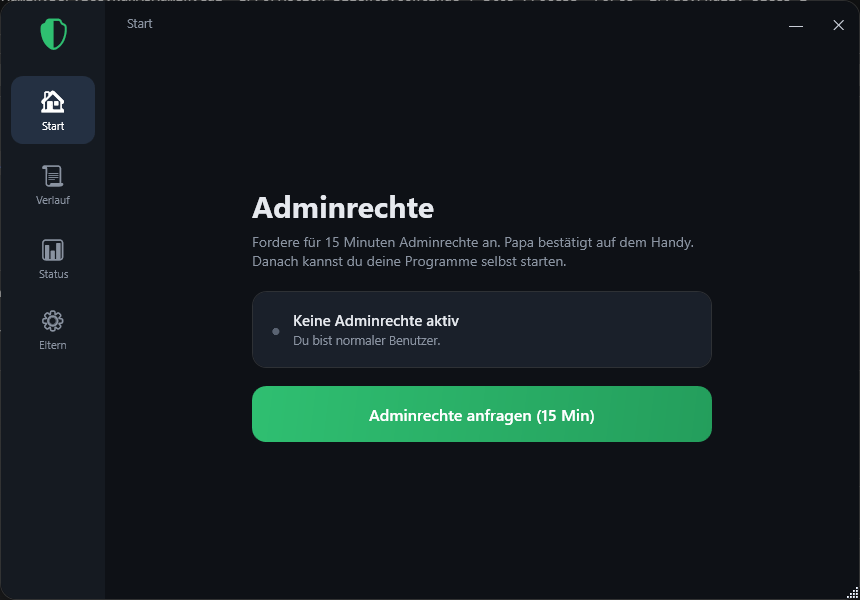
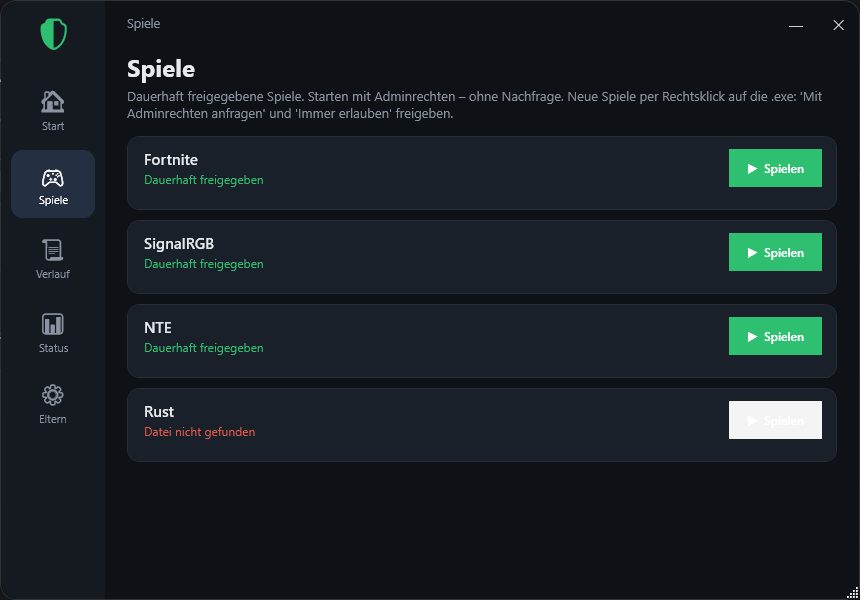
README auf aktuellen Stand: Server-Modus, Spiele-Feature, PIN-Fallback + neuer Screenshot
- Zwei Freigabe-Wege (Spiele dauerhaft / 15 Min Admin) und drei Anbindungen
  (HA-Webhooks / Add-on-Server / lokale PIN) beschrieben
- Geheimnis vs. Server-Token erklaert (woher welcher Wert kommt)
- entfernten CLI-Client aus Bestandteilen/Build-Anweisung geloescht
- Add-on-Abschnitt ergaenzt; neuer echter Screenshot zeigt den Reiter "Spiele"

diff --git a/README.md b/README.md
@@ -1,38 +1,69 @@
 # RunAsAdmin
 
-Kontrollierte, protokollierte **Adminrechte auf Zeit** für Standardbenutzer unter
-Windows 11 – ein selbstgebauter Ersatz für Tools wie „Admin By Request", gekoppelt
-an Home Assistant. Gedacht für Kinder-PCs: Die Kinder bleiben normale Benutzer und
-können bei Bedarf **15 Minuten Adminrechte anfragen**, die ein Elternteil per Handy
-freigibt. Danach werden die Rechte automatisch wieder entzogen – und es wird
-protokolliert, welche Programme in der Zeit mit Adminrechten liefen.
+Kontrollierte, protokollierte **Adminrechte für Standardbenutzer** unter Windows 11 –
+ein selbstgebauter Ersatz für Tools wie „Admin By Request". Gedacht für Kinder-PCs:
+Die Kinder bleiben normale Benutzer, können aber gezielt und protokolliert zu
+Adminrechten kommen. Freigaben laufen über **Home Assistant** (per Handy) oder über
+das mitgelieferte **HA-Add-on**, alternativ lokal per **Eltern-PIN**.
 
-> **Prinzip (MakeMeAdmin):** Statt einzelne Programme erhöht zu starten, wird das
-> Kind nach der Freigabe kurz **echtes Admin-Mitglied**. Es startet seine Programme
-> dann selbst (bei Bedarf mit einem UAC-Klick, den es nun bestätigen darf). Nach
-> Ablauf der Zeit wird es automatisch zurückgestuft.
+Es gibt zwei Wege, die sich ergänzen:
+
+- **Spiele dauerhaft freigeben** (für den Alltag): Ein Spiel (z. B. mit Anti-Cheat,
+  oder SignalRGB) wird **einmalig** freigegeben und startet danach immer selbst
+  erhöht – **ohne UAC, ohne dass das Kind Admin wird, ohne tägliches Nachfragen**.
+  Technisch über eine geplante Aufgabe (Task Scheduler), die genau diese `.exe`
+  erhöht startet.
+- **Adminrechte auf Zeit** (für Ausnahmen, z. B. mal etwas installieren): Das Kind
+  fragt **15 Minuten Admin** an, ein Elternteil gibt frei, danach automatischer
+  Entzug. Protokolliert, welche Programme in der Zeit erhöht liefen.
 
 ![RunAsAdmin – die App auf dem Kinder-PC](assets/screenshot.png)
 
-Die App auf dem Kinder-PC: Seitenleiste (Start · Verlauf · Status · Eltern),
-Statusanzeige und der Knopf „Adminrechte anfragen (15 Min)".
+Die App auf dem Kinder-PC: Seitenleiste (Start · Spiele · Verlauf · Status · Eltern).
+Hier der Reiter „Spiele" – dauerhaft freigegebene Spiele startet das Kind per Klick
+erhöht, ohne UAC und ohne Admin zu werden.
 
 ---
 
-## Ablauf
+## Freigabe-Wege im Überblick
 
-1. Kind öffnet die **RunAsAdmin-App** (Tray-Symbol / Startmenü) und klickt
-   **„Adminrechte anfragen (15 Min)"**.
-2. Der Dienst schickt die Anfrage per Webhook an **Home Assistant** → du bekommst
-   eine **Push-Benachrichtigung** mit *Erlauben / Ablehnen*.
-3. Bei *Erlauben* nimmt der Dienst (läuft als SYSTEM) das Kind in die lokale
-   Administratorengruppe. Die App zeigt **„Du bist 15 Minuten Admin"** + Restzeit,
-   das Tray-Symbol wird grün.
-4. Das Kind startet seine Programme (Spiele, Updater …) **selbst**.
-5. Während der Zeit protokolliert der Dienst, welche Programme **tatsächlich
-   erhöht** (als Admin) liefen.
-6. Nach 15 Minuten: automatischer Entzug der Adminrechte. In Home Assistant
-   erscheint im Logbuch z. B. *„Admin-Zeit beendet – genutzt: Steam, …"*.
+| Weg | Wofür | Wie freigegeben |
+|-----|-------|-----------------|
+| **Spiel dauerhaft** | tägliche Spiele / Tools mit Admin-Bedarf | einmalig „Immer erlauben" → Reiter *Spiele* + Tray |
+| **15 Min Admin** | einmalige Ausnahmen (installieren usw.) | pro Anfrage per Handy / Dashboard / PIN |
+
+### Anbindung (umschaltbar in den Einstellungen)
+
+- **Home Assistant** (Webhooks): Anfrage geht per Webhook an HA, Push mit
+  *Erlauben / Ablehnen*, Entscheidung kommt an den PC zurück. Braucht ein
+  gemeinsames Geheimnis (siehe unten).
+- **Server** (HA-Add-on `runasadmin_server`): Der PC spricht mit **einem** Add-on,
+  das Freigaben, Verlauf und ein Web-Dashboard (Graphen) bereitstellt. Der PC pollt
+  nur ausgehend – **kein offener Port am PC nötig**.
+- **Lokale Eltern-PIN**: Fallback, wenn HA/Server nicht erreichbar ist. Papa gibt am
+  PC die PIN ein → sofort 15 Minuten Admin. Falsche PIN wird gemeldet.
+
+---
+
+## Ablauf: Spiel dauerhaft freigeben
+
+1. Kind: Rechtsklick auf die Spiel-`.exe` → **„Mit Adminrechten anfragen"**.
+2. Elternteil gibt frei und wählt **„Immer erlauben"** (per Handy, Dashboard oder PIN).
+3. Der Dienst legt für dieses Spiel eine **geplante Aufgabe** an (läuft als der
+   angemeldete Benutzer mit höchsten Rechten) und sichert die Datei per
+   **Hash/Herausgeber** gegen Austausch ab.
+4. Das Spiel erscheint im Reiter **„Spiele"** und im **Tray-Menü**. Ab jetzt startet
+   das Kind es dort per Klick – erhöht, ohne UAC, nur dieses eine Programm.
+
+## Ablauf: Adminrechte auf Zeit (15 Min)
+
+1. Kind klickt in der App **„Adminrechte anfragen (15 Min)"**.
+2. Freigabe per Handy (HA), im Add-on-Dashboard oder lokal per **Eltern-PIN**.
+3. Bei *Erlauben* nimmt der Dienst (SYSTEM) das Kind kurz in die lokale
+   Administratorengruppe; Tray-Symbol wird grün, Restzeit läuft.
+4. Das Kind startet seine Programme selbst. Protokolliert wird, was **tatsächlich
+   erhöht** lief.
+5. Nach 15 Minuten: automatischer Entzug. Not-Aus jederzeit per Handy/Dashboard.
 
 ---
 
@@ -40,12 +71,14 @@ Statusanzeige und der Knopf „Adminrechte anfragen (15 Min)".
 
 | Teil | Projekt | Läuft wo |
 |------|---------|----------|
-| **Dienst** (nimmt Anfragen an, verwaltet Admin-Zeit, protokolliert) | `src/RunAsAdmin.Service` | als SYSTEM auf jedem Kinder-PC |
-| **GUI** (Tray + Fenster: anfragen, Status, Verlauf, Einstellungen) | `src/RunAsAdmin.Gui` | als das Kind auf dem Kinder-PC |
+| **Dienst** (Anfragen, Admin-Zeit, Spiele-Start, Protokoll) | `src/RunAsAdmin.Service` | als SYSTEM auf jedem Kinder-PC |
+| **GUI** (Tray + Fenster: Start, Spiele, Verlauf, Status, Eltern) | `src/RunAsAdmin.Gui` | als das Kind auf dem Kinder-PC |
 | **Installer** (Single-File-Setup, Deinstaller, Cleanup) | `src/RunAsAdmin.Installer` | einmal pro PC |
-| CLI (optional, für Skripte) | `src/RunAsAdmin.Client` | – |
 | Gemeinsames Modell, Verschlüsselung, Update | `src/RunAsAdmin.Shared` | – |
 | **Home Assistant** (Automationen, Dashboard) | `homeassistant/` | dein HA-Server |
+| **HA-Add-on** (Server-Modus: API + Dashboard) | `addon/runasadmin-server/`¹ | dein HA-Server |
+
+¹ Das Add-on wird aus dem Repo **`Delido/hassio-addons`** installiert; `addon/` hier ist die Entwicklungsquelle.
 
 ---
 
@@ -59,10 +92,15 @@ Die Release-Dateien sind **self-contained** – es ist **kein** .NET nötig.
 2. **`RunAsAdmin-Setup.exe`** (auf der obersten Ebene) als Administrator ausführen.
    Der Installer kopiert die Dateien, härtet die Berechtigungen (Kinder können
    Konfiguration und Protokolle nicht ändern), legt das Tray-Autostart an,
-   registriert den Dienst als LocalSystem und setzt URL-Vorbehalte + Firewallregeln.
+   registriert den Dienst als LocalSystem und – **nur im HA-Modus** – setzt
+   URL-Vorbehalte + Firewallregeln für den Rückkanal.
 3. **Einrichten (einmalig):** Tray-Symbol → *Einstellungen (Eltern)*:
-   Home-Assistant-Adresse, das Geheimnis (CallbackSecret) und eine **Eltern-PIN**
-   eintragen, „Home Assistant verwenden" anhaken.
+   - **Verbindungsart** wählen: *Home Assistant* oder *Server*.
+   - *Home Assistant:* Adresse + **gemeinsames Geheimnis** (siehe unten) eintragen,
+     „Home Assistant verwenden" anhaken.
+   - *Server:* Add-on-Adresse (`http://<ha-ip>:8099`) + **Server-Token** eintragen
+     (= die Add-on-Option `pc_token`).
+   - In beiden Fällen eine **Eltern-PIN** festlegen.
 
 > Bei Problemen mit einer alten Installation: `Cleanup.ps1` (im ZIP) als Admin
 > ausführen, ggf. neu starten, dann Setup erneut.
@@ -73,36 +111,64 @@ Die Release-Dateien sind **self-contained** – es ist **kein** .NET nötig.
 
 ---
 
-## Sicherheit
+## Das gemeinsame Geheimnis / Token
 
-- **Geheimnisse verschlüsselt:** Das `CallbackSecret` wird mit Windows **DPAPI**
-  verschlüsselt gespeichert, nie im Klartext. Die Eltern-**PIN** liegt als
-  gesalzener Hash vor. Beides ist nur über die PIN-geschützten Einstellungen änderbar.
-- **Dieses Repo enthält keine persönlichen Daten** – keine HA-Adresse, kein Secret.
-  Du trägst diese nur lokal in der App ein.
-- **Gehärtete Rechte:** Konfiguration (`C:\ProgramData\RunAsAdmin\config.json`) und
-  Protokolle sind per ACL für die Kinder gesperrt.
-- **Zeitlich begrenzt:** Adminrechte werden nach 15 Minuten automatisch entzogen –
-  auch nach einem Dienst-Neustart wird eine verwaiste Mitgliedschaft aufgeräumt.
-- Die lokalen Listener sind per Firewallregel beschränkt.
+Je nach Verbindungsart brauchst du **einen** Wert – und er muss auf beiden Seiten
+identisch sein:
+
+- **Home Assistant (CallbackSecret):** ein **frei erfundenes** Passwort. Du trägst
+  denselben Wert am PC (GUI) **und** in Home Assistant ein. Damit prüft der PC, dass
+  die Freigabe-Antwort wirklich von deinem HA kommt. In der GUI erzeugt der Knopf
+  **„Würfeln"** auf Wunsch ein starkes Zufalls-Secret und kopiert es.
+- **Server (pc_token):** das Token kommt **vom Add-on**. In HA beim Add-on
+  „RunAsAdmin Server" unter *Konfiguration* die Option `pc_token` setzen und denselben
+  Wert am PC eintragen.
+
+Beide Werte werden am PC mit Windows **DPAPI** verschlüsselt gespeichert, nie im
+Klartext – auch nicht in der Konfigurationsdatei.
 
 ---
 
-## Home Assistant
+## Sicherheit
+
+- **Geheimnisse verschlüsselt:** Secret/Token per **DPAPI** verschlüsselt, Eltern-PIN
+  als gesalzener Hash. Änderbar nur über die PIN-geschützten Einstellungen.
+- **Dieses Repo enthält keine persönlichen Daten** – keine HA-Adresse, kein Secret.
+- **Gehärtete Rechte:** Konfiguration (`C:\ProgramData\RunAsAdmin\config.json`) und
+  Protokolle sind per ACL für die Kinder gesperrt.
+- **Spiele-Start abgesichert:** Vor jedem Start wird die `.exe` gegen den hinterlegten
+  Hash/Herausgeber geprüft – eine ausgetauschte Datei startet nicht.
+- **Zeitlich begrenzt:** 15-Min-Rechte werden automatisch entzogen – auch nach einem
+  Dienst-Neustart wird eine verwaiste Mitgliedschaft aufgeräumt. Not-Aus per Handy/
+  Dashboard.
+- Im HA-Modus sind die lokalen Listener per Firewallregel beschränkt; im Server-Modus
+  gibt es keinen eingehenden Port.
+
+---
+
+## Home Assistant (HA-Modus)
 
 Im Ordner `homeassistant/`:
 
-1. **`configuration.snippet.yaml`** → `rest_command`, die `input_text`-Helfer und
+1. **`configuration.snippet.yaml`** → `rest_command`, `input_text`-Helfer und
    `counter` übernehmen → **HA neu starten**.
-2. **`automation.yaml`** → die Automationen in `automations.yaml` übernehmen und
+2. **`automation.yaml`** → Automationen in `automations.yaml` übernehmen und
    `notify.mobile_app_DEIN_HANDY` auf dein Gerät setzen → Automationen neu laden.
-3. **`dashboard.yaml`** → als neues Dashboard über den Raw-Editor einfügen
-   (Status, Statistik, Verlauf „wer / wann / was").
+3. **`dashboard.yaml`** → als neues Dashboard über den Raw-Editor einfügen.
 
-Die Anfrage kommt per Webhook rein (nur aus dem Heimnetz, `local_only: true`), die
-Push bietet *Erlauben / Ablehnen*, die Entscheidung geht an den Rückkanal des PCs
-zurück (der Dienst nutzt dafür seine lokale IP). Ereignisse (Freigabe, Ablauf mit
-genutzten Programmen) landen im HA-Logbuch und in Zählern.
+Anfragen kommen per Webhook rein (nur Heimnetz, `local_only: true`), die Push bietet
+*Erlauben / Ablehnen*, die Entscheidung geht an den Rückkanal des PCs zurück.
+
+## HA-Add-on (Server-Modus)
+
+Das Add-on **„RunAsAdmin Server"** (Repo `Delido/hassio-addons`) bietet eine zentrale
+API für die PCs und ein Web-Dashboard: offene Anfragen mit *Erlauben/Ablehnen*,
+aktive Admin-Zeiten mit Not-Aus, Admin-Zeiten pro Tag, meistgespielte Spiele und die
+je PC freigegebenen Spiele.
+
+1. In HA → Add-on-Store → ⋮ → *Repositories* → `https://github.com/Delido/hassio-addons`.
+2. „RunAsAdmin Server" installieren, `pc_token` setzen, starten.
+3. Am PC in den Einstellungen Verbindungsart *Server* wählen und Adresse + Token eintragen.
 
 ---
 
@@ -110,11 +176,10 @@ genutzten Programmen) landen im HA-Logbuch und in Zählern.
 
 - **Lokal (fälschungssicher):** `C:\ProgramData\RunAsAdmin\logs\audit-JJJJ-MM-TT.jsonl`
   (eine JSON-Zeile je Ereignis) + Windows-Ereignisanzeige (Quelle `RunAsAdmin`).
-- **In Home Assistant:** Logbuch + Dashboard.
+- **In Home Assistant / Add-on:** Logbuch bzw. Dashboard.
 
-Wichtige Ereignisse: `timeadmin.granted`, `timeadmin.process` (nur erhöhte
-Programme), `timeadmin.revoked` (mit Programmliste), `timeadmin.denied`,
-`settings.saved`, `update.*`.
+Wichtige Ereignisse: `timeadmin.granted` / `timeadmin.revoked` (mit Programmliste),
+`timeadmin.denied`, `game.launched`, `games.registered`, `settings.saved`, `update.*`.
 
 ---
 
@@ -123,7 +188,7 @@ Programme), `timeadmin.revoked` (mit Programmliste), `timeadmin.denied`,
 Voraussetzung: .NET 8 SDK.
 
 ```powershell
-.\install\Publish.ps1    # baut Service/Client/GUI/Installer self-contained nach .\publish
+.\install\Publish.ps1    # baut Service/GUI/Installer self-contained nach .\publish
 ```
 
 Die Versionsnummer wird zentral in `Directory.Build.props` gepflegt (gilt für alle
@@ -133,7 +198,10 @@ Projekte, damit die Dateiversion jeder exe zum Release passt).
 
 ## Hinweise / Grenzen
 
-- **Ein UAC-Klick** kann je nach Programm nötig bleiben – das Kind kann ihn in der
-  Admin-Zeit aber selbst bestätigen (es braucht kein Eltern-Passwort).
-- Die „erhöht gelaufen?"-Erkennung fängt Programme, die ein Admin-Token haben;
-  je nach Spiel/Launcher kann die Liste nachjustiert werden.
+- Der **Task-Scheduler-Start** für Spiele ist der zuverlässige Weg, erhöht und
+  sichtbar zu starten. Ob ein bestimmter Anti-Cheat einen so gestarteten Prozess
+  akzeptiert, kann je nach Spiel variieren.
+- Bei **Microsoft-Konten** kann der Kontoname für die geplante Aufgabe abweichen –
+  wird im Protokoll sichtbar, falls das Anlegen fehlschlägt.
+- Die „erhöht gelaufen?"-Erkennung fängt Programme mit Admin-Token; je nach
+  Spiel/Launcher kann die Liste nachjustiert werden.
